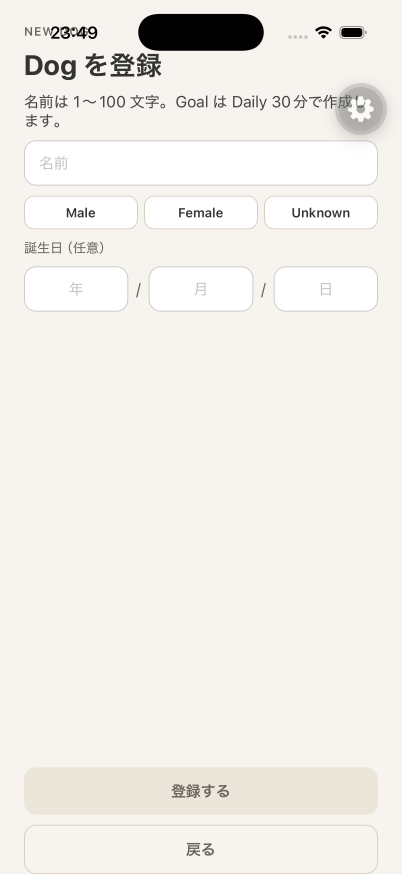
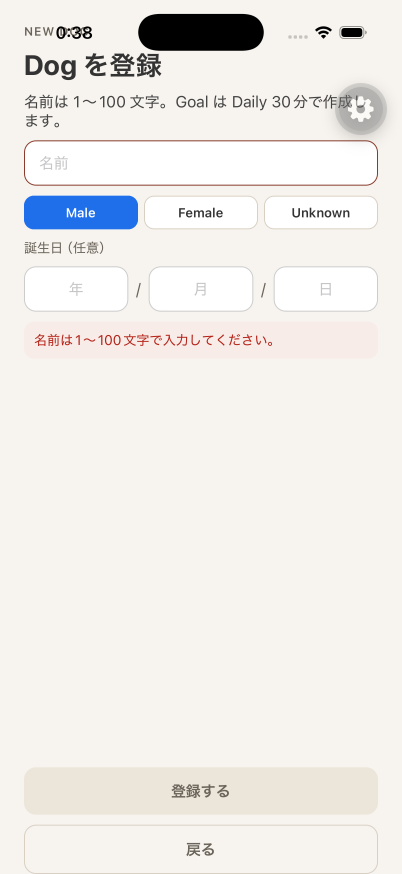
docs: recapture Dog register invalid iOS evidence

diff --git a/apps/mobile/src/app/(app)/dogs/new.tsx b/apps/mobile/src/app/(app)/dogs/new.tsx
@@ -127,7 +127,11 @@ export default function RegisterDogScreen() {
   }
 
   const submit = async () => {
-    if (submitting || !canSubmit || gender === null) {
+    if (submitting) {
+      return
+    }
+    if (!canSubmit || gender === null) {
+      setState({ kind: 'invalid' })
       return
     }
 
@@ -289,8 +293,8 @@ export default function RegisterDogScreen() {
         accessible
         accessibilityRole="button"
         accessibilityLabel="登録する"
-        accessibilityState={{ disabled: submitting || !canSubmit }}
-        disabled={submitting || !canSubmit}
+        accessibilityState={{ disabled: submitting }}
+        disabled={submitting}
         style={[
           styles.submit,
           canSubmit && !submitting ? styles.submitReady : styles.submitDisabled,

diff --git a/docs/logs/20260814213159-r1-step2-dog/e2e-report.md b/docs/logs/20260814213159-r1-step2-dog/e2e-report.md
@@ -9,7 +9,7 @@
 - iPhone 17 Pro simulator (`C01CDE0B-DAF2-4466-9C9B-41E63A0CBEDE`, iOS 26.2) ran the SDK 57 development client against Metro on `8082`.
 - Sign In with Cognito email OTP authenticated an Owner whose `displayName` was already set.
 - Authenticated home showed Dogs Empty (`DOG-01`): `まだ Dog がいません。登録すると散歩に選べます。`
-- Register with empty Name left `登録する` disabled (name 1–100 and gender required before submit).
+- Register with empty Name and Male selected showed `DOG-03` invalid: red Name field, `名前は1〜100文字で入力してください。` on `dog-new-error`, and a retryable `登録する`. No `POST /v1/dogs` on that tap.
 - Valid name `Mugi` + Male called `POST /v1/dogs` and received `201`.
 - `currentGoal` was `period: daily`, `minutes: 30`, `effectiveTo: null` (Postgres `goal_revisions` row; list subtitle `30 min daily goal`).
 - Registering `Mugi` again called `POST /v1/dogs` and received `409` with `同じ名前のDogが既に存在します。`
@@ -34,7 +34,8 @@ npx expo start --clear --port 8082
 # Simulator + app drive (agent-device)
 xcrun simctl boot C01CDE0B-DAF2-4466-9C9B-41E63A0CBEDE
 xcrun simctl install C01CDE0B-DAF2-4466-9C9B-41E63A0CBEDE <Debug-iphonesimulator/mobile.app>
-# open com.cacheandbuffer.walkdog → Metro 8082 → Sign In → OTP → Empty → empty Name invalid → Mugi + Male 201 List → duplicate 409 → row tap Detail
+# open com.cacheandbuffer.walkdog → Metro 8082 → Sign In → OTP → Empty → empty Name + Male → 登録する invalid → Mugi + Male 201 List → duplicate 409 → row tap Detail
+# recapture: metro reload → /dogs/new → Male + empty Name → 登録する → ios-dog-new-invalid.png
 ```
 
 API log evidence:
@@ -67,4 +68,4 @@ Postgres after `201`:
 
 ## Result
 
-The iOS E2E completed on an iPhone 17 Pro simulator with the SDK 57 development client. Dogs Empty, empty-name register (submit disabled), List after `POST /v1/dogs` `201` with Daily 30 `currentGoal`, duplicate `409`, and Detail were captured.
+The iOS E2E completed on an iPhone 17 Pro simulator with the SDK 57 development client. Dogs Empty, register invalid (`名前は1〜100文字で入力してください。` with retryable `登録する`), List after `POST /v1/dogs` `201` with Daily 30 `currentGoal`, duplicate `409`, and Detail were captured.
